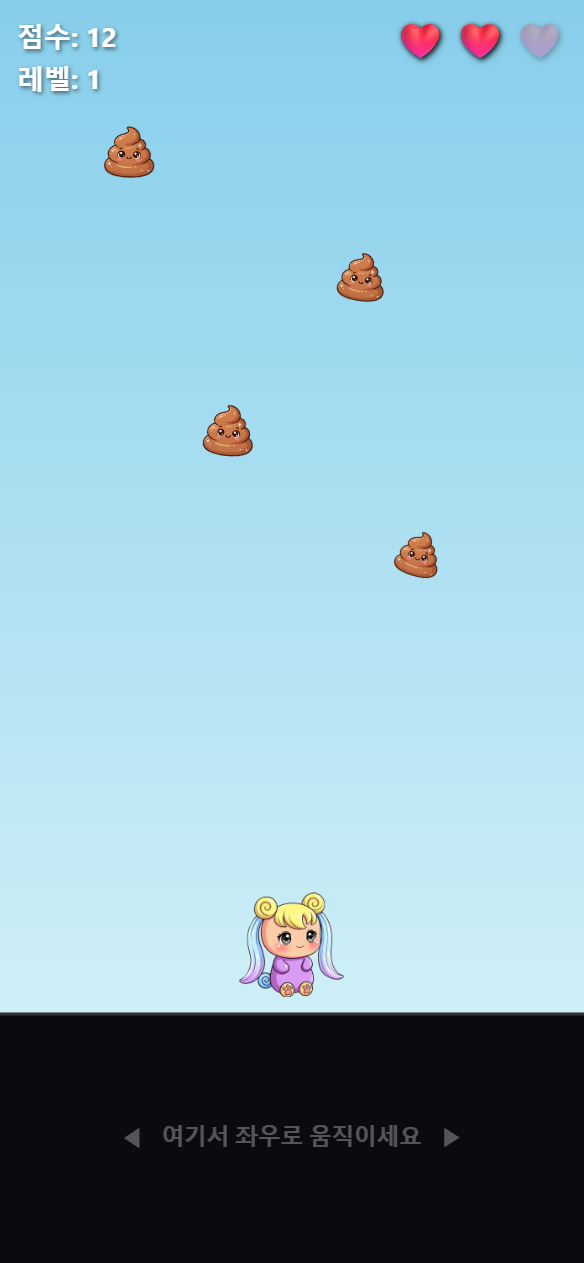
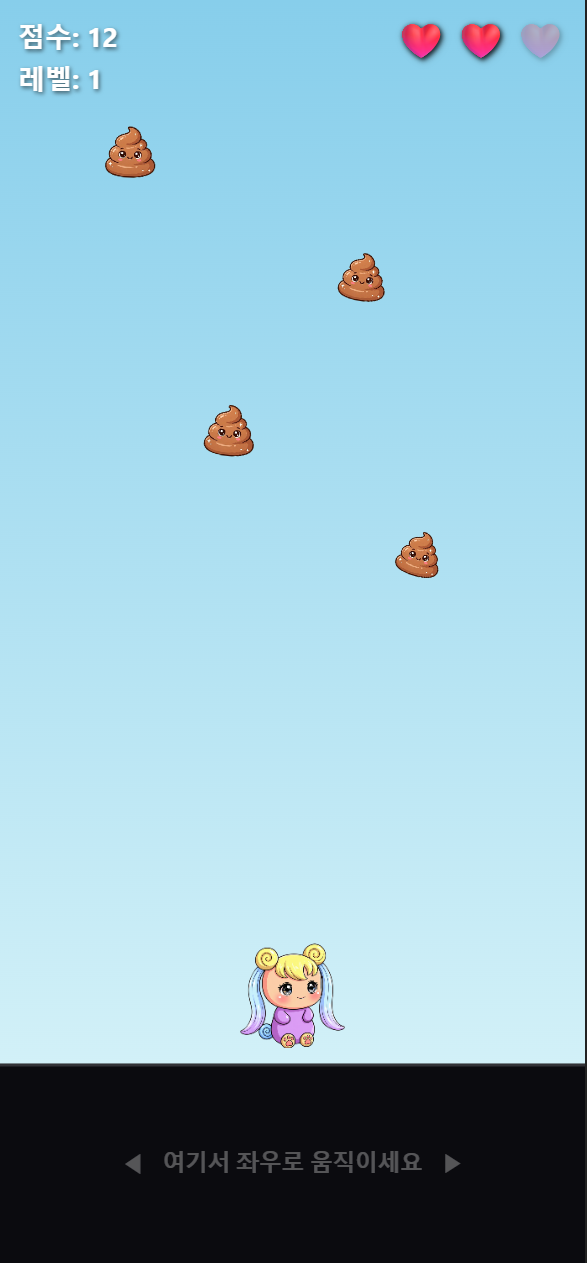
허브 카드 높이 통일, 게임 선택 순환 이동, 똥피하기 조작 띠 높이 조정, 썸네일 갱신
- 허브 슬라이드 카드를 min-height 대신 고정 height로 바꿔서 게임마다
  제목/설명 길이가 달라도 대표 이미지·점·버튼이 항상 같은 위치에 오게 함.
- 허브 게임 선택을 순환 이동으로 변경: 0001에서 왼쪽으로 가면 TBD로,
  TBD에서 오른쪽으로 가면 0001로. 버튼·키보드·스와이프 모두 동일하게 적용.
- 똥피하기 하단 조작 띠 높이를 쭈채런과 같은 비율(화면의 16%, 100~160px)로
  맞춤 — 기존에는 20%(110~190px)로 더 넓었음.
- 위 변경 사항을 반영해 0001~0003 허브 대표 이미지를 다시 캡처.

Claude-Session: https://claude.ai/code/session_01PNMbjxnMMixx3Q5p35Ptqu

diff --git a/games/0001-ddong-pihagi/game.js b/games/0001-ddong-pihagi/game.js
@@ -129,9 +129,9 @@ function resize() {
   width = vp.w;
   height = vp.h;
 
-  // 조작 띠: 화면의 20% 정도, 너무 얇거나 두껍지 않게. 하단 안전 영역만큼
-  // 더 확보해서 조작 띠가 제스처 바에 가려지지 않게 합니다.
-  controlHeight = Math.max(110, Math.min(190, Math.round(height * 0.2))) + getSafeAreaBottom();
+  // 조작 띠: 화면의 16% 정도, 너무 얇거나 두껍지 않게(쭈채런과 동일한 비율).
+  // 하단 안전 영역만큼 더 확보해서 조작 띠가 제스처 바에 가려지지 않게 합니다.
+  controlHeight = Math.max(100, Math.min(160, Math.round(height * 0.16))) + getSafeAreaBottom();
   playHeight = height - controlHeight;
 
   const dpr = window.devicePixelRatio || 1;

diff --git a/index.html b/index.html
@@ -5,7 +5,7 @@
 <meta name="viewport" content="width=device-width, initial-scale=1.0, user-scalable=no, viewport-fit=cover">
 <meta name="robots" content="noindex, nofollow">
 <title>쭈채 게임 모음</title>
-<link rel="stylesheet" href="hub.css?v=4">
+<link rel="stylesheet" href="hub.css?v=5">
 </head>
 <body>
   <div id="hub-container">
@@ -34,6 +34,6 @@
     <p class="hint">← → 방향키 또는 화면을 좌우로 밀어서 게임을 고르세요</p>
   </div>
 
-  <script src="hub.js?v=5"></script>
+  <script src="hub.js?v=6"></script>
 </body>
 </html>

diff --git a/hub.js b/hub.js
@@ -75,14 +75,12 @@ function render() {
   startBtn.disabled = !game.ready;
   startBtn.textContent = game.ready ? "시작하기" : "준비중";
 
-  prevBtn.disabled = index === 0;
-  nextBtn.disabled = index === GAMES.length - 1;
-
   dotEls.forEach((d, i) => d.classList.toggle("active", i === index));
 }
 
+// 끝에서 끝으로도 막힘없이 순환합니다(0001 이전 → TBD, TBD 다음 → 0001).
 function goTo(i) {
-  index = Math.max(0, Math.min(GAMES.length - 1, i));
+  index = ((i % GAMES.length) + GAMES.length) % GAMES.length;
   render();
 }
 

diff --git a/hub.css b/hub.css
@@ -76,8 +76,11 @@ body {
   flex-direction: column;
   align-items: center;
   gap: 8px;
-  min-height: 380px;
+  /* min이 아니라 고정 height — 슬라이드마다 제목/설명 길이가 달라도
+     대표 이미지와 그 아래 점·버튼이 항상 같은 위치에 오도록 합니다. */
+  height: 380px;
   justify-content: center;
+  overflow: hidden;
 }
 
 #slide.not-ready {

diff --git a/games/0001-ddong-pihagi/index.html b/games/0001-ddong-pihagi/index.html
@@ -46,6 +46,6 @@
     <div id="levelup-toast" class="hidden"></div>
   </div>
 
-  <script src="game.js?v=13"></script>
+  <script src="game.js?v=14"></script>
 </body>
 </html>
